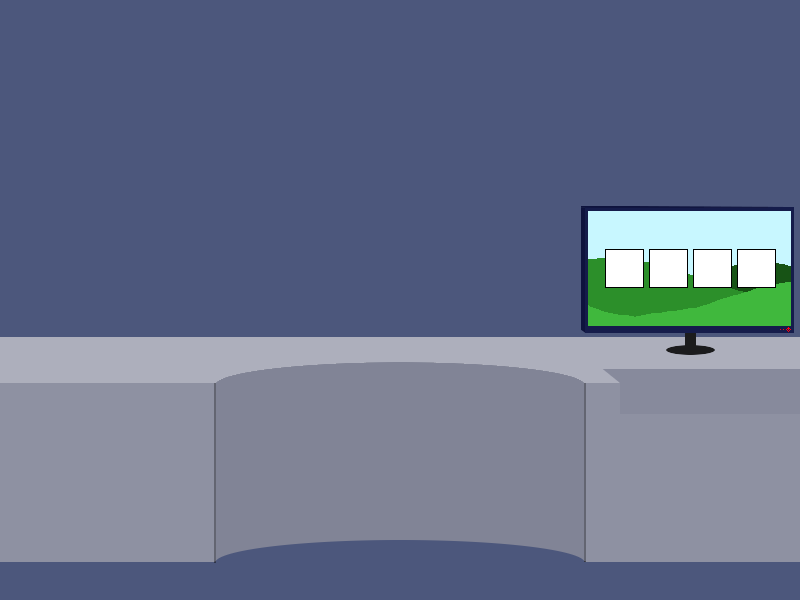
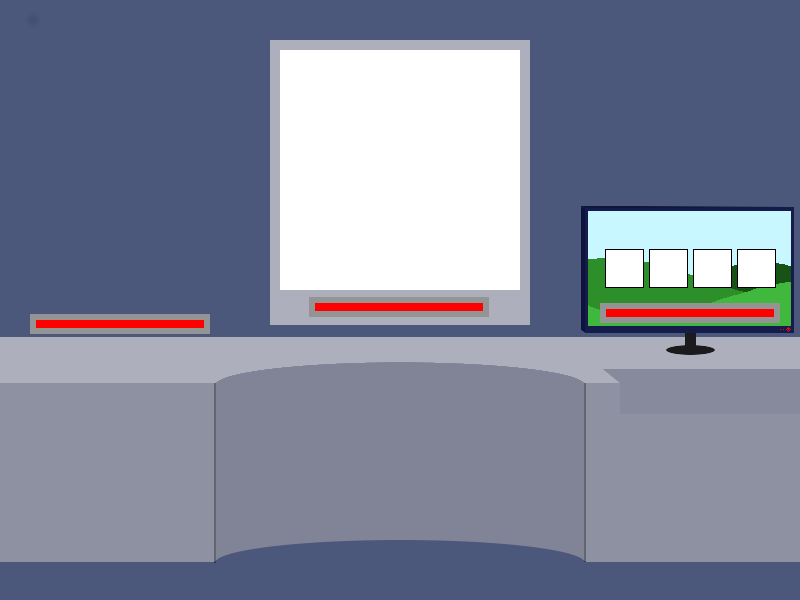
Added Timer
Added timers
Imposed penalties (need to fix size)
Puzzle 2 has a win condition and resets

Changed region(s): [[0.3125, 0.06, 0.6875, 0.54], [0.0312, 0.51, 0.2812, 0.57], [0.75, 0.48, 1.0, 0.54]]

diff --git a/Server/server.py b/Server/server.py
@@ -85,7 +85,15 @@ def serverMessage(msg):
         print(move)
         instruction = "puzzle2Reception"
         legalMove = gameBoard.isLegalMove(move)
-        if legalMove:
+        # tests if won game
+        if legalMove and int(move[2]) == 0:
+            instruction = "puzzle2Won"
+            gameBoard.__init__()
+            for cID in clientele:
+                sendMsg = instruction + "\n"
+                clientele[cID].send(sendMsg.encode())
+                print("> sent to %s:" % cID, sendMsg[:-1])
+        elif legalMove:
             legal = "True"
             row = int(move[0])
             col = int(move[1])
@@ -95,7 +103,6 @@ def serverMessage(msg):
                 sendMsg = instruction + " " + legal + " %d %d %d %d\n" % (row, col, newRow, newCol)
                 clientele[cID].send(sendMsg.encode())
                 print("> sent to %s:" % cID, sendMsg[:-1])
-            #'''
             # Minnie make move
             moveToMake = getMove(gameBoard, 7)
             row = int(moveToMake[0])
@@ -107,14 +114,6 @@ def serverMessage(msg):
                 sendMsg = instruction + " " + legal + " %d %d %d %d\n" % (row, col, newRow, newCol)
                 clientele[cID].send(sendMsg.encode())
                 print("> sent to %s:" % cID, sendMsg[:-1])
-            #'''
-            print(gameBoard.whiteLeft, gameBoard.blackLeft)
-            '''
-            for cID in clientele:
-                sendMsg = instruction + " " + legal + " " + moveToMake + "\n"
-                clientele[cID].send(sendMsg.encode())
-                print("> sent to %s:" % cID, sendMsg[:-1])
-            '''
         else:
             legal = "False"
             for cID in clientele:
@@ -127,10 +126,6 @@ def serverMessage(msg):
     
     elif (command == "puzzle1Solution"):
         pass
-
-
-
-
 
 clientele = dict()
 playerNum = 0

diff --git a/Client/clients.py b/Client/clients.py
@@ -34,6 +34,7 @@ def handleServerMsg(server, serverMsg):
       command = msg.split("\n")
 
 from background import *
+from timer import *
 from puzzle1GC import *
 from puzzle1MT import *
 from puzzle2GC import *
@@ -49,6 +50,7 @@ class Game(PygameGame):
         Puzzle1.init()
         Puzzle2.init()
         Background.init()
+        Timer.init()
         self.background = None
         self.solution = "Z"
         self.puzzle1 = None
@@ -125,7 +127,7 @@ class Game(PygameGame):
                         self.puzzle1 = Puzzle1MT(self.solution)
                 else:
                     # impose penalty
-                    pass
+                    self.puzzle1.timer.sprite.penalty(35)
 
             elif (command == "puzzle2Reception"):
                 legal = msg[1]
@@ -135,7 +137,13 @@ class Game(PygameGame):
                     self.puzzle2.update()
                 else:
                     # impose penalty
-                    pass
+                    self.puzzle2.timer.sprite.penalty(10)
+
+            elif (command == "puzzle2Won"):
+                if self.player == "GC":
+                    self.puzzle2 = Puzzle2GC()
+                else:
+                    self.puzzle2 = Puzzle2MT()
             #except:
               #  print("failed")
             serverMsg.task_done()
@@ -144,6 +152,8 @@ class Game(PygameGame):
                 pass
             else:
                 self.puzzle1.update()
+            self.puzzle1.timer.update()
+            self.puzzle2.timer.update()
 
     def redrawAll(self, screen):
         screen.blit(self.background.image, self.background.rect)

diff --git a/Client/timer.py b/Client/timer.py
@@ -1,0 +1,40 @@
+# Generic timer class that counts down puzzles
+
+import pygame
+
+class Timer(pygame.sprite.Sprite):
+    @staticmethod
+    def init():
+        image = pygame.image.load('images/timer.png').convert_alpha()
+        Timer.image = image
+
+    def __init__(self, x, y, image, totalTime):
+        super(Timer, self).__init__()
+        self.x = x
+        self.y = y
+        self.image = image
+        self.baseImage = image.copy()
+        self.totalTime = totalTime
+        self.startWidth, self.height = self.image.get_size()
+        self.elapsedTime = 0
+        self.updateRect()
+    
+    # taken from Lucas Peraza's GameObject.py,
+    # https://github.com/LBPeraza/Pygame-Asteroids
+    def updateRect(self):
+        w, h = self.image.get_size()
+        self.width, self.height = w, h
+        self.rect = pygame.Rect(self.x, self.y, w, h)
+
+    def update(self):
+        self.elapsedTime = min(self.elapsedTime + 1, self.totalTime)
+        newWidth = max(int(self.startWidth * ((self.totalTime - self.elapsedTime) / self.totalTime)), 0)
+        self.image = pygame.transform.scale(self.image, (newWidth, self.height))
+        self.updateRect()
+    
+    def penalty(self, percent):
+        amount = self.totalTime // (100 - percent)
+        self.elapsedTime = min(self.elapsedTime + amount, self.totalTime)
+    
+    def reset(self):
+        self.elapsedTime = 0

diff --git a/Server/puzzle2AI.py b/Server/puzzle2AI.py
@@ -6,20 +6,10 @@ modified by me
 '''
 from puzzle2Logic import *
 
-# takes a board, depth, alpha, and beta where alpha and beta are 
-# the best scores guaranteed for Maxie and Minnie, respectively.0, 
-# Returns a tuple (move, score) where move is the
-# best move for Maxie and score is the board score that results
-# from making that move. The best move is the one that maximizes
-# Maxie's score by maximizing the board score.
-# Uses alpha-beta pruning to prune this part of the game tree if it
-# detects that this branch will never be relevant to the overall search.
-# If depth is the max depth, returns the score given by a heuristic function
-
 def MaxieMoveAlphaBeta(board, depth, alpha, beta):
     #print("   "*(5-depth))
     assert(alpha < beta)
-    if board.isGameOver():
+    if False:#board.isGameOver():
         return (None, 100) if board.won("Maxie") else (None, -100)
     elif depth == 0:
         return (None, board.heuristic(board))
@@ -43,7 +33,7 @@ def MaxieMoveAlphaBeta(board, depth, alpha, beta):
 def MinnieMoveAlphaBeta(board, depth, alpha, beta):
     #print("   "*(5-depth))
     assert(alpha < beta)
-    if board.isGameOver():
+    if False:#board.isGameOver():
         return (None, -100) if board.won("Minnie") else (None, 100)
     elif depth == 0:
         return (None, board.heuristic(board))

diff --git a/Client/puzzle2GC.py b/Client/puzzle2GC.py
@@ -7,8 +7,9 @@ class Puzzle2GC(Puzzle2):
         super().__init__()
         self.highlightImage = pygame.transform.scale(Puzzle2.highlight,
                                                   (self.tileSize, self.tileSize))
-
         self.highlight = pygame.sprite.GroupSingle()
+        timer = Timer(315, 303, Timer.image, 3000)
+        self.timer = pygame.sprite.GroupSingle(timer)
         
     def makeTiles(self):
         tiles = []
@@ -53,6 +54,7 @@ class Puzzle2GC(Puzzle2):
     def draw(self, screen):
         self.tiles.draw(screen)
         self.highlight.draw(screen)
+        self.timer.draw(screen)
 
 class Highlight(pygame.sprite.Sprite):
     def __init__(self, x, y, image):

diff --git a/Client/puzzle1MT.py b/Client/puzzle1MT.py
@@ -16,6 +16,8 @@ class Puzzle1MT(Puzzle1):
         self.terminalImage = Puzzle1.MTTerminal
         terminal = Terminal(800, 600, self.terminalImage)
         self.terminalGroup = pygame.sprite.GroupSingle(terminal)
+        timer = Timer(586, 446, Timer.image, 1000)
+        self.timer = pygame.sprite.GroupSingle(timer)
 
     def update(self):
         self.letterGroup.update()
@@ -23,6 +25,7 @@ class Puzzle1MT(Puzzle1):
     def draw(self, screen):
         self.letterGroup.draw(screen)
         self.terminalGroup.draw(screen)
+        self.timer.draw(screen)
 
 
 class Letter(pygame.sprite.Sprite):

diff --git a/Client/puzzle2MT.py b/Client/puzzle2MT.py
@@ -2,7 +2,12 @@
 
 from puzzle2 import *
 
-class Puzzle2MT(Puzzle2):    
+class Puzzle2MT(Puzzle2):   
+    def __init__(self):
+        super().__init__()
+        timer = Timer(315, 300, Timer.image, 3000)
+        self.timer = pygame.sprite.GroupSingle(timer)
+    
     def makeTiles(self):
         tiles = []
         tileCount = 64
@@ -23,3 +28,7 @@ class Puzzle2MT(Puzzle2):
                 tile = Button2(x, y, image)
                 tiles.append(tile)
         return tiles
+    
+    def draw(self, screen):
+        self.tiles.draw(screen)
+        self.timer.draw(screen)

diff --git a/Client/puzzle1GC.py b/Client/puzzle1GC.py
@@ -16,6 +16,8 @@ class Puzzle1GC(Puzzle1):
         buttons = self.makeButtons()
         for button in buttons:
             self.buttons.add(button)
+        timer = Timer(606, 309, Timer.image, 1000)
+        self.timer = pygame.sprite.GroupSingle(timer)
     
     def makeButtons(self):
         buttons = []
@@ -51,6 +53,7 @@ class Puzzle1GC(Puzzle1):
 
     def draw(self, screen):
         self.buttons.draw(screen)
+        self.timer.draw(screen)
 
 class Button1(Button):
     def __init__(self, x, y, image, isSolution):

diff --git a/Client/puzzle2.py b/Client/puzzle2.py
@@ -4,6 +4,7 @@ import string
 import random
 import pygame
 from button import *
+from timer import *
 
 class Puzzle2(object):
     # load all possible button images
@@ -113,6 +114,7 @@ class Puzzle2(object):
         self.tiles.draw(screen)
 
 class Button2(Button):
+    @staticmethod
     def init(x, y, size):
         Button2.startx = x
         Button2.starty = y

diff --git a/Server/puzzle2Logic.py b/Server/puzzle2Logic.py
@@ -149,5 +149,5 @@ class Board(object):
                 self.whiteLeft -= 1
                 return True
         return False
-    
+        
 gameBoard = Board()

diff --git a/Client/puzzle1.py b/Client/puzzle1.py
@@ -3,6 +3,7 @@
 import string
 import random
 import pygame
+from timer import *
 
 class Puzzle1(object):
     # load all possible button images
